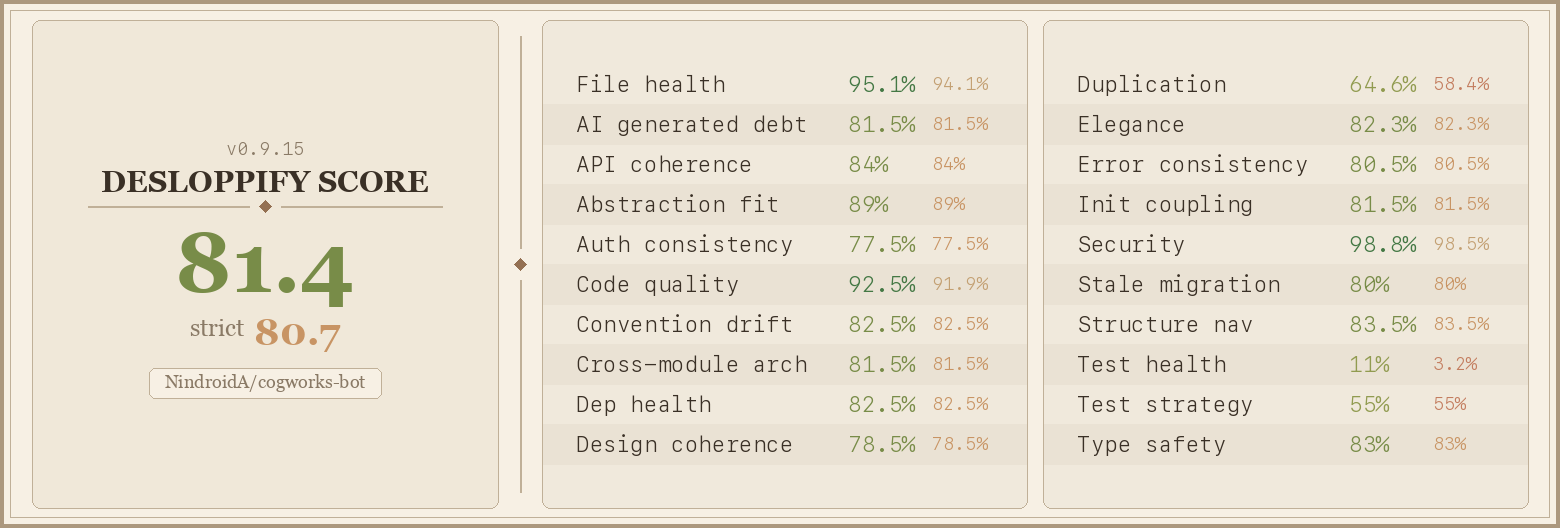
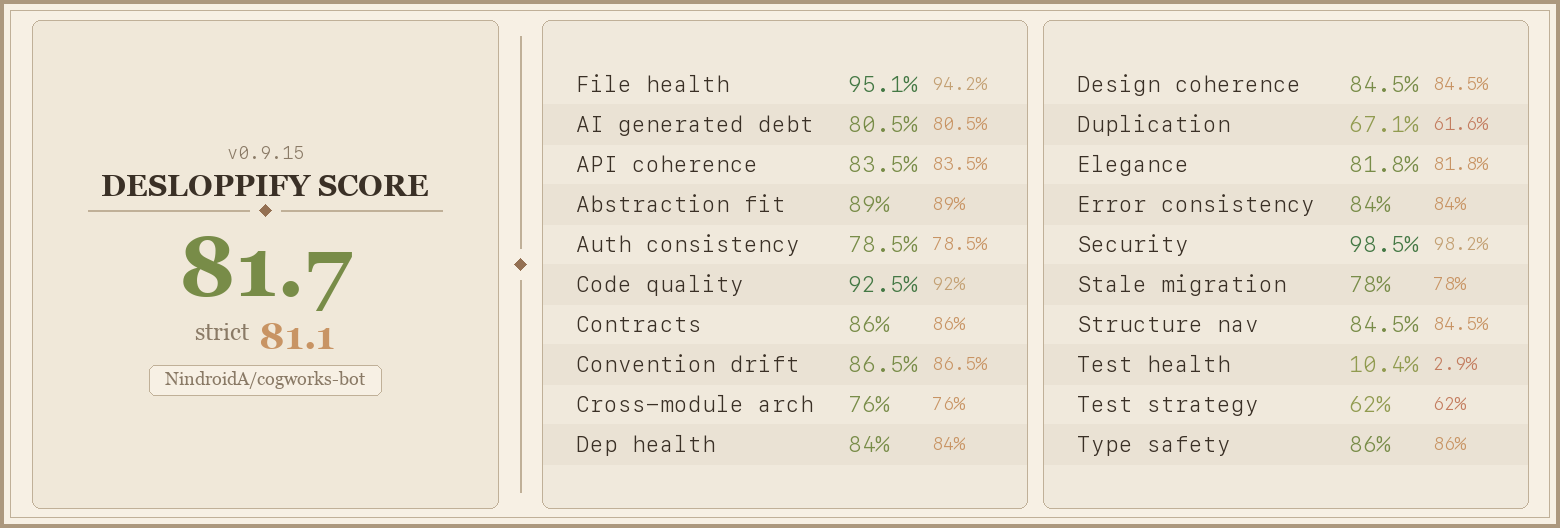
fix(bait): rename TOKEN_ISSUER → ISSUER_NAME to silence security false-positive
Desloppify's `hardcoded_secret_name` detector flags any constant
declaration containing "TOKEN" in its name as a potential hardcoded
secret. The const was a plain issuer-claim string ('cogworks'), not
a secret — the actual secret comes from APPEAL_HMAC_SECRET env at
runtime. Rename to ISSUER_NAME eliminates the noise without changing
behavior. All 1203 tests still pass.

This was the only new HIGH-severity finding introduced by v3.2.0
work. Remaining HIGH findings in the codebase are pre-existing
import cycles in shared infrastructure (`emojis.ts → errorHandler.ts
→ index.ts`) — out of scope for this refinement.

diff --git a/src/utils/baitChannel/appealToken.ts b/src/utils/baitChannel/appealToken.ts
@@ -23,7 +23,7 @@
 import { Buffer } from 'node:buffer';
 import { createHmac, timingSafeEqual } from 'node:crypto';
 
-const TOKEN_ISSUER = 'cogworks';
+const ISSUER_NAME = 'cogworks';
 const DEFAULT_EXP_HOURS = 7 * 24; // 7 days — long enough for most ban-appeal workflows
 
 export interface AppealTokenPayload {
@@ -94,7 +94,7 @@ export function signAppealToken(input: SignAppealTokenInput): string {
     banReason: input.banReason,
     iat: now,
     exp,
-    iss: TOKEN_ISSUER,
+    iss: ISSUER_NAME,
   };
   const payloadStr = b64urlEncode(JSON.stringify(payload));
   const sig = createHmac('sha256', getSecret()).update(payloadStr).digest();
@@ -129,7 +129,7 @@ export function verifyAppealToken(token: string): VerifyResult {
     return { valid: false, error: 'invalid_format' };
   }
 
-  if (payload.iss !== TOKEN_ISSUER) return { valid: false, error: 'wrong_issuer' };
+  if (payload.iss !== ISSUER_NAME) return { valid: false, error: 'wrong_issuer' };
   if (typeof payload.exp !== 'number') return { valid: false, error: 'invalid_format' };
   if (payload.exp * 1000 < Date.now()) return { valid: false, error: 'expired' };
 